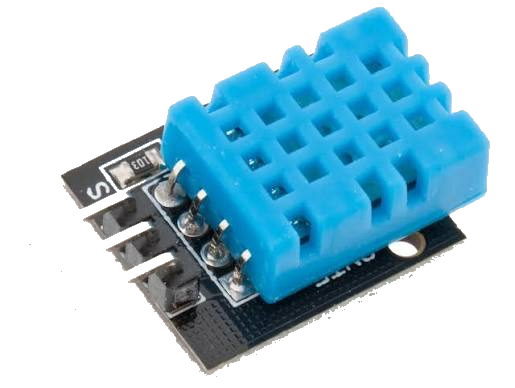
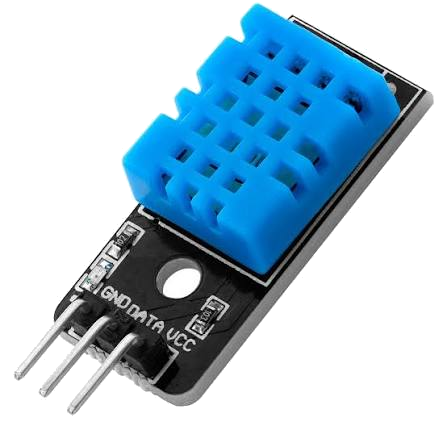
Update TechBit Branding and Catalog

diff --git a/products.js b/products.js
@@ -13,49 +13,49 @@ const PRODUCTS = [
     desc: "UNO R3 compatible development board based on the ATmega328P, with a CH340 USB interface and USB cable." },
   { id: 13, name: "Nano V3 (ATmega328P CH340)",           price: 9.99, icon: "fa-solid fa-microchip",          image: "images/product-crops/nano-v3-user-cutout.png", category: "Development Boards", popular: true,
     desc: "Compact Nano V3 development board based on the ATmega328P with a CH340 USB interface." },
-  { id: 5,  name: "830-Point Breadboard",                  price: 4.99, icon: "fa-solid fa-border-all",         image: "images/product-crops/breadboard-cutout.png", category: "Prototyping", popular: true,
+  { id: 5,  name: "830-Point Breadboard",                  price: 3.99, icon: "fa-solid fa-border-all",         image: "images/product-crops/breadboard-cutout.png", category: "Prototyping", popular: true,
     desc: "Solderless 830-point breadboard for assembling and testing prototype circuits." },
-  { id: 6,  name: "40pcs M-M Jumper Wire (20cm)",         price: 3.49, icon: "fa-solid fa-plug",               image: "images/product-crops/jumper-wires-user-cutout.png", category: "Components", popular: false,
+  { id: 6,  name: "40pcs M-M Jumper Wire (20cm)",         price: 2.99, icon: "fa-solid fa-plug",               image: "images/product-crops/jumper-wires-mf-cutout.png", category: "Components", popular: false,
     desc: "Set of 40 male-to-male Dupont jumper wires, 20 cm long, for breadboard and module connections." },
-  { id: 14, name: "40pcs M-F Jumper Wire (20cm)",         price: 3.49, icon: "fa-solid fa-plug",               image: "images/product-crops/jumper-wires-user-cutout.png", category: "Components", popular: false,
+  { id: 14, name: "40pcs M-F Jumper Wire (20cm)",         price: 2.99, icon: "fa-solid fa-plug",               image: "images/product-crops/jumper-wires-mf-cutout.png", category: "Components", popular: false,
     desc: "Set of 40 male-to-female Dupont jumper wires, 20 cm long, for connecting boards to modules." },
-  { id: 15, name: "40pcs F-F Jumper Wire (20cm)",         price: 3.49, icon: "fa-solid fa-plug",               image: "images/product-crops/jumper-wires-user-cutout.png", category: "Components", popular: false,
+  { id: 15, name: "40pcs F-F Jumper Wire (20cm)",         price: 2.99, icon: "fa-solid fa-plug",               image: "images/product-crops/jumper-wires-mf-cutout.png", category: "Components", popular: false,
     desc: "Set of 40 female-to-female Dupont jumper wires, 20 cm long, for connecting modules and sensors." },
-  { id: 3,  name: "HC-SR04 Ultrasonic Sensor",             price: 2.49, icon: "fa-solid fa-satellite-dish",    image: "images/product-crops/hc-sr04-user-cutout.png", category: "Sensors & Modules", popular: true,
+  { id: 3,  name: "HC-SR04 Ultrasonic Sensor",             price: 3.49, icon: "fa-solid fa-satellite-dish",    image: "images/product-crops/hc-sr04-user-cutout.png", category: "Sensors & Modules", popular: true,
     desc: "Ultrasonic distance sensor for measuring range in robotics, obstacle detection, and other electronics projects." },
-  { id: 16, name: "HC-SR501 PIR Sensor",                   price: 3.49, icon: "fa-solid fa-person-walking",    image: "images/product-crops/pir-sensor.jpg", category: "Sensors & Modules", popular: false,
+  { id: 16, name: "HC-SR501 PIR Sensor",                   price: 3.49, icon: "fa-solid fa-person-walking",    image: "images/product-crops/pir-sensor-user-cutout.png", category: "Sensors & Modules", popular: false,
     desc: "Passive infrared motion sensor module for detecting movement in automation and security projects." },
-  { id: 7,  name: "DHT11 Temperature & Humidity",          price: 2.99, icon: "fa-solid fa-temperature-half",  image: "images/product-crops/dht11-stock-cutout.png", category: "Sensors & Modules", popular: false,
+  { id: 7,  name: "DHT11 Temperature & Humidity",          price: 2.99, icon: "fa-solid fa-temperature-half",  image: "images/product-crops/dht11-user-cutout.png", category: "Sensors & Modules", popular: false,
     desc: "Digital temperature and humidity sensor module for weather stations and environmental monitoring." },
-  { id: 8,  name: "1-Channel 5V Relay Module",             price: 2.99, icon: "fa-solid fa-toggle-on",         image: "images/product-crops/relay-sticker.png", category: "Components", popular: false,
+  { id: 8,  name: "1-Channel 5V Relay Module",             price: 2.99, icon: "fa-solid fa-toggle-on",         image: "images/product-crops/relay-module-user-cutout.png", category: "Components", popular: false,
     desc: "Single-channel 5V relay module for switching external loads from a microcontroller project." },
-  { id: 17, name: "LM2596 Adjustable DC-DC Module",        price: 2.99, icon: "fa-solid fa-bolt",               category: "Power Supplies", popular: false,
+  { id: 17, name: "LM2596 Adjustable DC-DC Module",        price: 2.99, icon: "fa-solid fa-bolt",               image: "images/product-crops/lm2596-user-cutout.png", category: "Power Supplies", popular: false,
     desc: "Adjustable DC-DC buck converter module for regulating voltage in electronics projects." },
-  { id: 18, name: "SG90 Servo",                            price: 4.99, icon: "fa-solid fa-gears",              image: "images/product-crops/sg90-user-cutout.png", category: "Robotics", popular: true,
+  { id: 18, name: "SG90 Servo",                            price: 3.99, icon: "fa-solid fa-gears",              image: "images/product-crops/sg90-user-cutout.png", category: "Robotics", popular: true,
     desc: "Compact SG90 servo motor for small robotics, model, and motion-control projects." },
-  { id: 4,  name: "0.96-inch I2C OLED Display",            price: 5.99, icon: "fa-regular fa-rectangle-list",  image: "images/product-crops/oled-user-cutout.png", category: "Displays", popular: true,
+  { id: 4,  name: "0.96-inch I2C OLED Display",            price: 6.99, icon: "fa-regular fa-rectangle-list",  image: "images/product-crops/oled-user-cutout.png", category: "Displays", popular: true,
     desc: "Compact 0.96-inch I2C OLED display for showing readings, menus, and status information." },
   { id: 19, name: "LCD1602 with I2C",                      price: 6.99, icon: "fa-regular fa-rectangle-list",  image: "images/product-crops/lcd1602-user-cutout.png", category: "Displays", popular: false,
     desc: "16x2 character LCD display with an I2C interface for simple text and data readouts." },
-  { id: 20, name: "Active Buzzer Module",                  price: 1.49, icon: "fa-solid fa-volume-high",       image: "images/product-crops/active-buzzer.jpg", category: "Components", popular: false,
+  { id: 20, name: "Active Buzzer Module",                  price: 1.99, icon: "fa-solid fa-volume-high",       image: "images/product-crops/active-buzzer-user-cutout.png", category: "Components", popular: false,
     desc: "Active buzzer module for adding audible alerts and simple sound feedback to projects." },
-  { id: 21, name: "Assorted 5mm LEDs (1,000 pcs)",         price: 19.99, icon: "fa-solid fa-lightbulb",        image: "images/product-crops/components-assortment.jpg", category: "LED & Lighting", popular: false,
-    desc: "Assortment of 1,000 5mm LEDs: 200 each in red, green, yellow, blue, and white." },
-  { id: 22, name: "Assorted 1/4W Resistors",               price: 9.99, icon: "fa-solid fa-grip",              image: "images/product-crops/components-assortment.jpg", category: "Components", popular: false,
-    desc: "Assorted 1/4-watt resistors for prototyping, repair, and electronics projects." },
-  { id: 23, name: "Tactile Push Buttons (200 pcs)",       price: 0.05, icon: "fa-regular fa-square",          category: "Components", popular: false,
-    desc: "Pack of 200 6x6x5 mm DIP tactile push buttons for user input and control circuits." },
+  { id: 21, name: "5mm LED (Each)",                        price: 0.025, icon: "fa-solid fa-lightbulb",        image: "images/product-crops/leds-assortment-user-cutout.png", category: "LED & Lighting", popular: false,
+    desc: "Single 5mm LED diode; color may vary between red, green, yellow, blue, and white." },
+  { id: 22, name: "1/4W Resistor (Each)",                 price: 0.025, icon: "fa-solid fa-grip",              image: "images/product-crops/resistors-user-cutout.png", category: "Components", popular: false,
+    desc: "Single 1/4-watt resistor from the assortment for prototyping, repair, and electronics projects." },
+  { id: 23, name: "Tactile Push Button (Each)",           price: 0.20,  icon: "fa-regular fa-square",          image: "images/product-crops/tactile-buttons-user-cutout.png", category: "Components", popular: false,
+    desc: "Single 6x6x5 mm DIP tactile push button for user input and control circuits." },
   { id: 24, name: "Assorted Potentiometers (50 pcs)",      price: 12.99, icon: "fa-solid fa-sliders",          image: "images/product-crops/potentiometers-user-cutout.png", category: "Components", popular: false,
     desc: "Set of 50 3362P potentiometers across 10 resistance values, from 100 ohms to 1 megohm." },
-  { id: 25, name: "Large Dupont Connector Assortment",     price: 9.99, icon: "fa-solid fa-plug",               image: "images/product-crops/jumper-wires-sticker.png", category: "Components", popular: false,
+  { id: 25, name: "Large Dupont Connector Assortment",     price: 9.99, icon: "fa-solid fa-plug",               image: "images/product-crops/dupont-assortment-user-cutout.png", category: "Components", popular: false,
     desc: "Assorted Dupont connectors for making and repairing jumper leads and electronics wiring." },
-  { id: 26, name: "Large JST-XH Connector Assortment",     price: 12.99, icon: "fa-solid fa-plug",              image: "images/product-crops/jst-xh.jpg", category: "Components", popular: false,
+  { id: 26, name: "Large JST-XH Connector Assortment",     price: 12.99, icon: "fa-solid fa-plug",              image: "images/product-crops/jst-xh-4pin-user-cutout.png", category: "Components", popular: false,
     desc: "Assorted JST-XH connectors for making secure wire-to-board connections." },
-  { id: 27, name: "Pin-Header Strips (2.54*1*40P)",       price: 0.79, icon: "fa-solid fa-grip-lines",        category: "Components", popular: false,
+  { id: 27, name: "Pin-Header Strips (2.54*1*40P)",       price: 0.79, icon: "fa-solid fa-grip-lines",        image: "images/product-crops/pin-header-user-cutout.png", category: "Components", popular: false,
     desc: "1x40 pin-header strip with 2.54 mm spacing for boards and custom electronics builds." },
-  { id: 28, name: "Heat-Shrink Assortment Kits",           price: 4.99, icon: "fa-solid fa-grip-lines-vertical", image: "images/product-crops/heat-shrink.jpg", category: "Components", popular: false,
+  { id: 28, name: "Heat-Shrink Assortment Kits",           price: 4.99, icon: "fa-solid fa-grip-lines-vertical", image: "images/product-crops/heat-shrink-assortment-cutout.png", category: "Components", popular: false,
     desc: "Assortment kit of heat-shrink tubing for insulating and protecting wire connections." },
-  { id: 29, name: "Complete UNO R3 Beginner Starter Kit",  price: 24.99, icon: "fa-solid fa-toolbox",           image: "images/product-crops/uno-starter-kit-user-cutout.png", category: "Development Boards", popular: true,
+  { id: 29, name: "Complete UNO R3 Beginner Starter Kit",  price: 40.00, icon: "fa-solid fa-toolbox",           image: "images/product-crops/uno-starter-kit-user-cutout.png", category: "Development Boards", popular: true,
     desc: "Complete UNO R3-compatible beginner kit for learning microcontroller programming and basic electronics." },
 ];
 

diff --git a/script.js b/script.js
@@ -60,10 +60,16 @@ function cartTotal() {
   }, 0);
 }
 
+function formatEuro(amount) {
+  const cents = amount * 100;
+  const decimals = Math.abs(cents - Math.round(cents)) > 1e-8 ? 3 : 2;
+  return `€${amount.toFixed(decimals)}`;
+}
+
 // Updates the little cart badge + total shown in the header on every page
 function updateHeaderCart() {
   document.querySelectorAll(".cart-count").forEach(el => el.textContent = cartCount());
-  document.querySelectorAll(".cart-total-amount").forEach(el => el.textContent = "€" + cartTotal().toFixed(2));
+  document.querySelectorAll(".cart-total-amount").forEach(el => el.textContent = formatEuro(cartTotal()));
 }
 
 // ---------- Home page: Popular Products grid (#product-grid) ----------
@@ -86,7 +92,7 @@ function productCardHTML(p) {
       </a>
       <h4><a href="product.html?id=${p.id}">${p.name}</a></h4>
       <div class="product-footer">
-        <span class="product-price">€${p.price.toFixed(2)}</span>
+        <span class="product-price">${formatEuro(p.price)}</span>
         <button title="Add to cart" onclick="addToCart(${p.id}); event.stopPropagation();">
           <i class="fa-solid fa-cart-shopping"></i>
         </button>
@@ -175,7 +181,7 @@ function renderProductDetail() {
       <div class="detail-info">
         <span class="detail-category">${product.category}</span>
         <h1>${product.name}</h1>
-        <p class="detail-price">€${product.price.toFixed(2)}</p>
+        <p class="detail-price">${formatEuro(product.price)}</p>
         <p class="detail-desc">${product.desc}</p>
         <div class="detail-actions">
           <input type="number" id="qty-input" value="1" min="1" />
@@ -223,20 +229,20 @@ function renderCartPage() {
         </div>
         <div class="cart-row-info">
           <h4>${p.name}</h4>
-          <span>€${p.price.toFixed(2)} each</span>
+          <span>${formatEuro(p.price)} each</span>
         </div>
         <div class="cart-row-qty">
           <button onclick="setQty(${id}, ${qty - 1})">-</button>
           <span>${qty}</span>
           <button onclick="setQty(${id}, ${qty + 1})">+</button>
         </div>
-        <div class="cart-row-subtotal">€${(p.price * qty).toFixed(2)}</div>
+        <div class="cart-row-subtotal">${formatEuro(p.price * qty)}</div>
         <button class="cart-row-remove" onclick="removeFromCart(${id})"><i class="fa-solid fa-trash"></i></button>
       </div>
     `;
   }).join("");
 
-  document.getElementById("cart-summary-total").textContent = "€" + cartTotal().toFixed(2);
+  document.getElementById("cart-summary-total").textContent = formatEuro(cartTotal());
 }
 
 // ---------- Contact page form (#contact-form) ----------

diff --git a/cart.html b/cart.html
@@ -30,7 +30,7 @@
   <div class="logo">
     <img class="logo-mark" src="images/techbit-logo-mark.png" alt="TechBit logo">
     <div class="logo-text">
-      <span class="logo-title">TECH<span class="accent">B</span>IT</span>
+      <span class="logo-title">TECH<span class="accent">BIT</span></span>
       <span class="logo-sub">COMPONENTS · TOOLS · INNOVATION</span>
     </div>
   </div>

diff --git a/contact.html b/contact.html
@@ -30,7 +30,7 @@
   <div class="logo">
     <img class="logo-mark" src="images/techbit-logo-mark.png" alt="TechBit logo">
     <div class="logo-text">
-      <span class="logo-title">TECH<span class="accent">B</span>IT</span>
+      <span class="logo-title">TECH<span class="accent">BIT</span></span>
       <span class="logo-sub">COMPONENTS · TOOLS · INNOVATION</span>
     </div>
   </div>

diff --git a/index.html b/index.html
@@ -30,7 +30,7 @@
   <div class="logo">
     <img class="logo-mark" src="images/techbit-logo-mark.png" alt="TechBit logo">
     <div class="logo-text">
-      <span class="logo-title">TECH<span class="accent">B</span>IT</span>
+      <span class="logo-title">TECH<span class="accent">BIT</span></span>
       <span class="logo-sub">COMPONENTS · TOOLS · INNOVATION</span>
     </div>
   </div>

diff --git a/product.html b/product.html
@@ -30,7 +30,7 @@
   <div class="logo">
     <img class="logo-mark" src="images/techbit-logo-mark.png" alt="TechBit logo">
     <div class="logo-text">
-      <span class="logo-title">TECH<span class="accent">B</span>IT</span>
+      <span class="logo-title">TECH<span class="accent">BIT</span></span>
       <span class="logo-sub">COMPONENTS · TOOLS · INNOVATION</span>
     </div>
   </div>

diff --git a/shop.html b/shop.html
@@ -30,7 +30,7 @@
   <div class="logo">
     <img class="logo-mark" src="images/techbit-logo-mark.png" alt="TechBit logo">
     <div class="logo-text">
-      <span class="logo-title">TECH<span class="accent">B</span>IT</span>
+      <span class="logo-title">TECH<span class="accent">BIT</span></span>
       <span class="logo-sub">COMPONENTS · TOOLS · INNOVATION</span>
     </div>
   </div>
